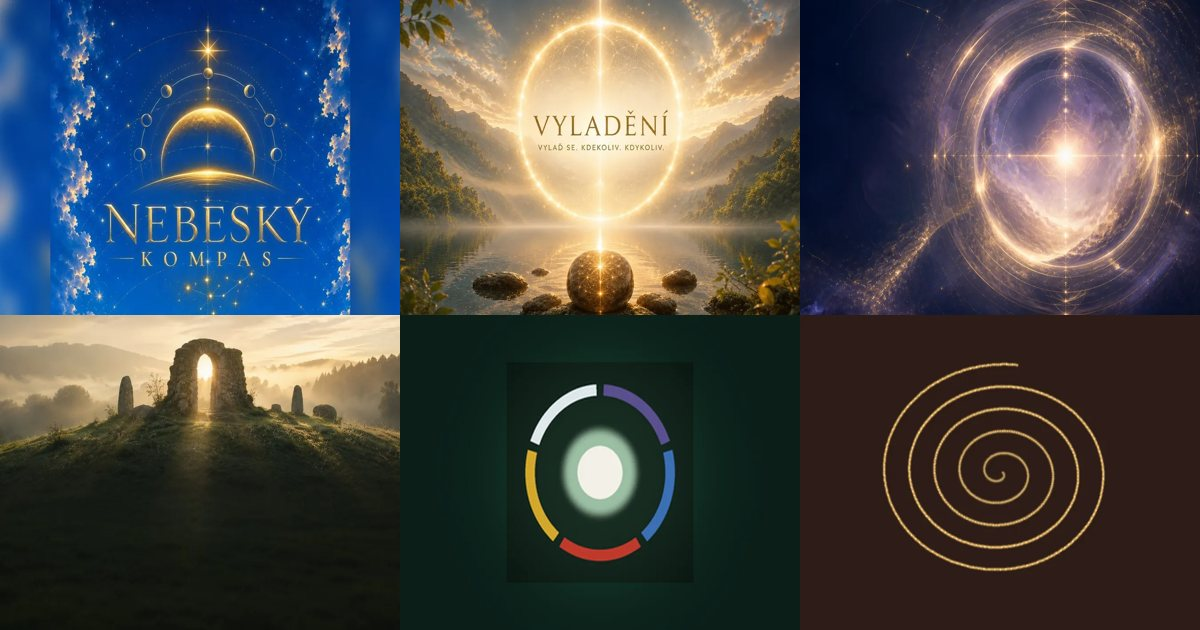
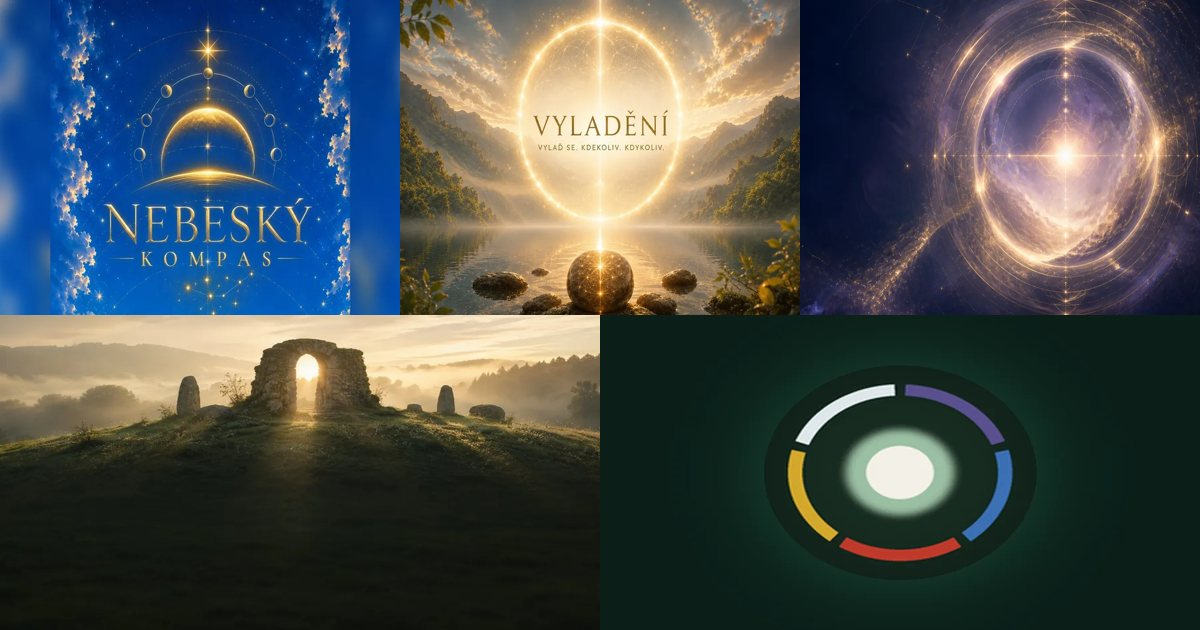
Spirit Lab: bez karty Mapa života (navazuje na Vesmírný kód, přidá se po spuštění)

Changed region(s): [[0.6475, 0.4825, 1.0, 1.0], [0.0, 0.4825, 0.5858, 0.9048]]

diff --git a/oaza-web/spirit-lab.html b/oaza-web/spirit-lab.html
@@ -4,7 +4,7 @@
 <meta charset="UTF-8">
 <meta name="viewport" content="width=device-width, initial-scale=1">
 <title>Spirit Lab — aplikace Oázy Adamanthea</title>
-<meta name="description" content="Spirit Lab je digitální dílna Oázy Adamanthea: Nebeský kompas, Vyladění, Vesmírný kód zrození, Atlas energetických míst, Tatvy a Mapa života. Aplikace pro vnitřní práci v telefonu i počítači.">
+<meta name="description" content="Spirit Lab je digitální dílna Oázy Adamanthea: Nebeský kompas, Vyladění, Vesmírný kód zrození, Atlas energetických míst a Tatvy. Aplikace pro vnitřní práci v telefonu i počítači.">
 <link rel="canonical" href="https://oaza-adamanthea.cz/spirit-lab">
 <meta name="robots" content="noindex">
 <link rel="icon" type="image/svg+xml" href="/favicon.svg?v=3">
@@ -12,7 +12,7 @@
 <link rel="icon" href="/favicon.ico?v=3" sizes="any">
 <link rel="apple-touch-icon" sizes="180x180" href="/oaza-adamanthea-favicon-180.png?v=3">
 <meta property="og:title" content="Spirit Lab · aplikace Oázy Adamanthea">
-<meta property="og:description" content="Nebeský kompas, Vyladění, Vesmírný kód zrození, Atlas energetických míst, Tatvy a Mapa života na jednom místě.">
+<meta property="og:description" content="Nebeský kompas, Vyladění, Vesmírný kód zrození, Atlas energetických míst a Tatvy na jednom místě.">
 <meta property="og:image" content="https://oaza-adamanthea.cz/img/spirit-lab/spirit-lab-og.jpg">
 <meta property="og:image:width" content="1200">
 <meta property="og:image:height" content="630">
@@ -185,16 +185,6 @@ footer a{color:var(--krem)}
     </div>
   </article>
 
-  <article class="karta pripravujeme">
-    <div class="obr"><img src="/img/spirit-lab/mapa-zivota.webp" width="900" height="600" alt="Mapa života" loading="lazy"></div>
-    <div class="telo">
-      <span class="stitek">Připravujeme</span>
-      <h2>Mapa života</h2><div class="pod">tvá cesta jako kniha</div>
-      <p>Osobní výklad životní cesty podle data narození, vysázený jako kniha v&nbsp;PDF, se jménem a&nbsp;věnováním.</p>
-      <div class="cena"><b>444 Kč</b> · jednorázově</div>
-      <a class="tl" href="/kontakt">Dát vědět o&nbsp;spuštění</a>
-    </div>
-  </article>
 </section>
 
 <section class="spolecne">
